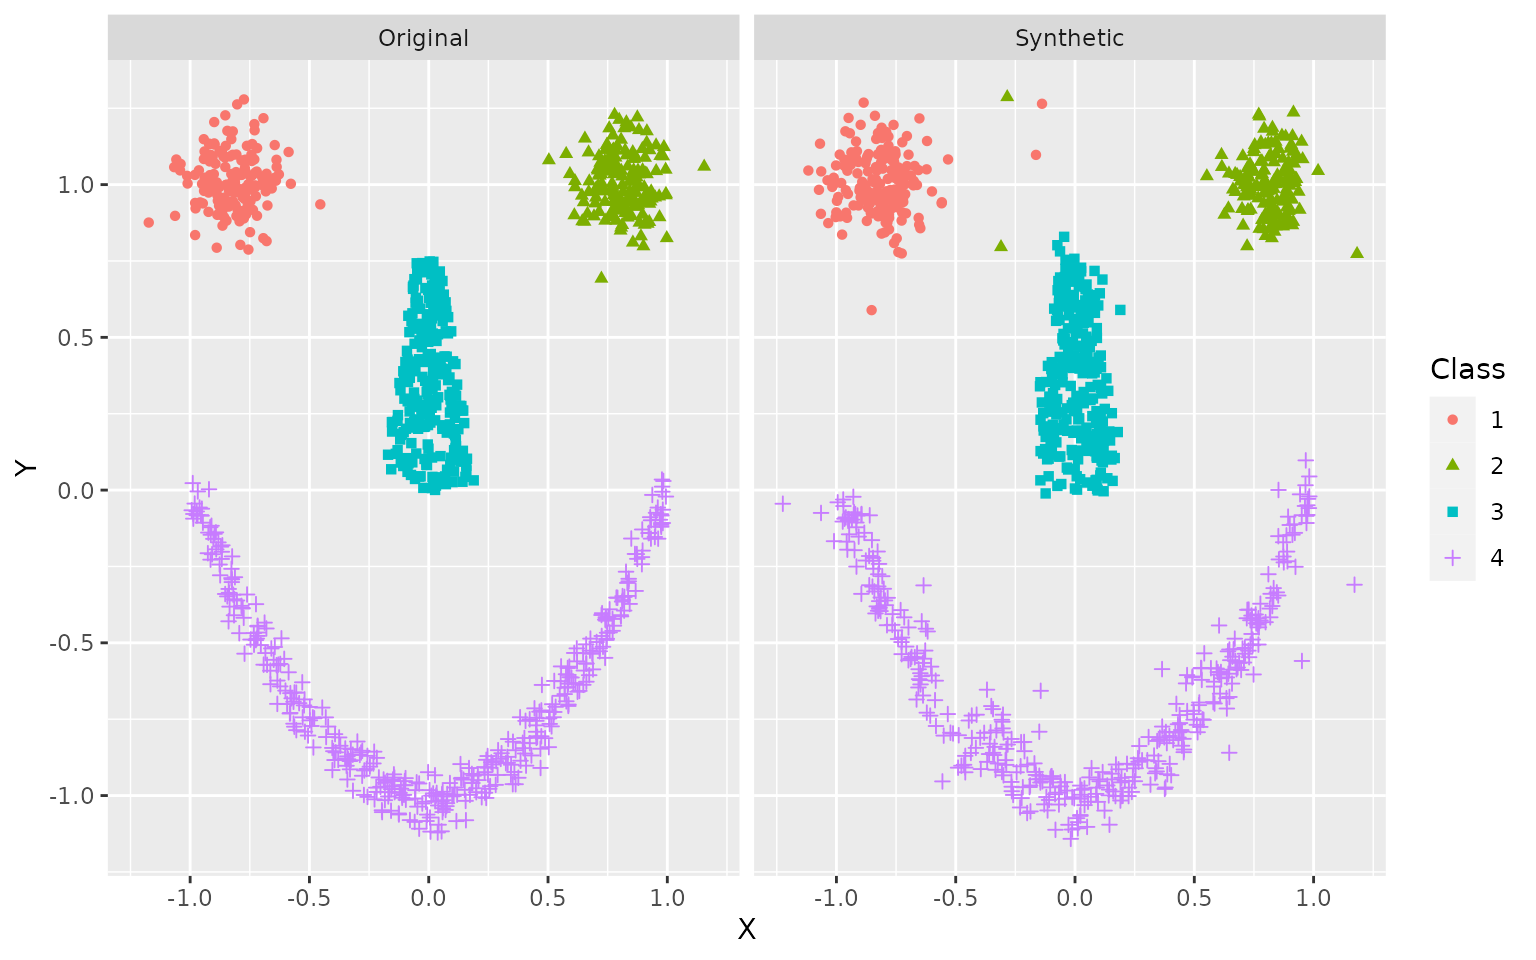
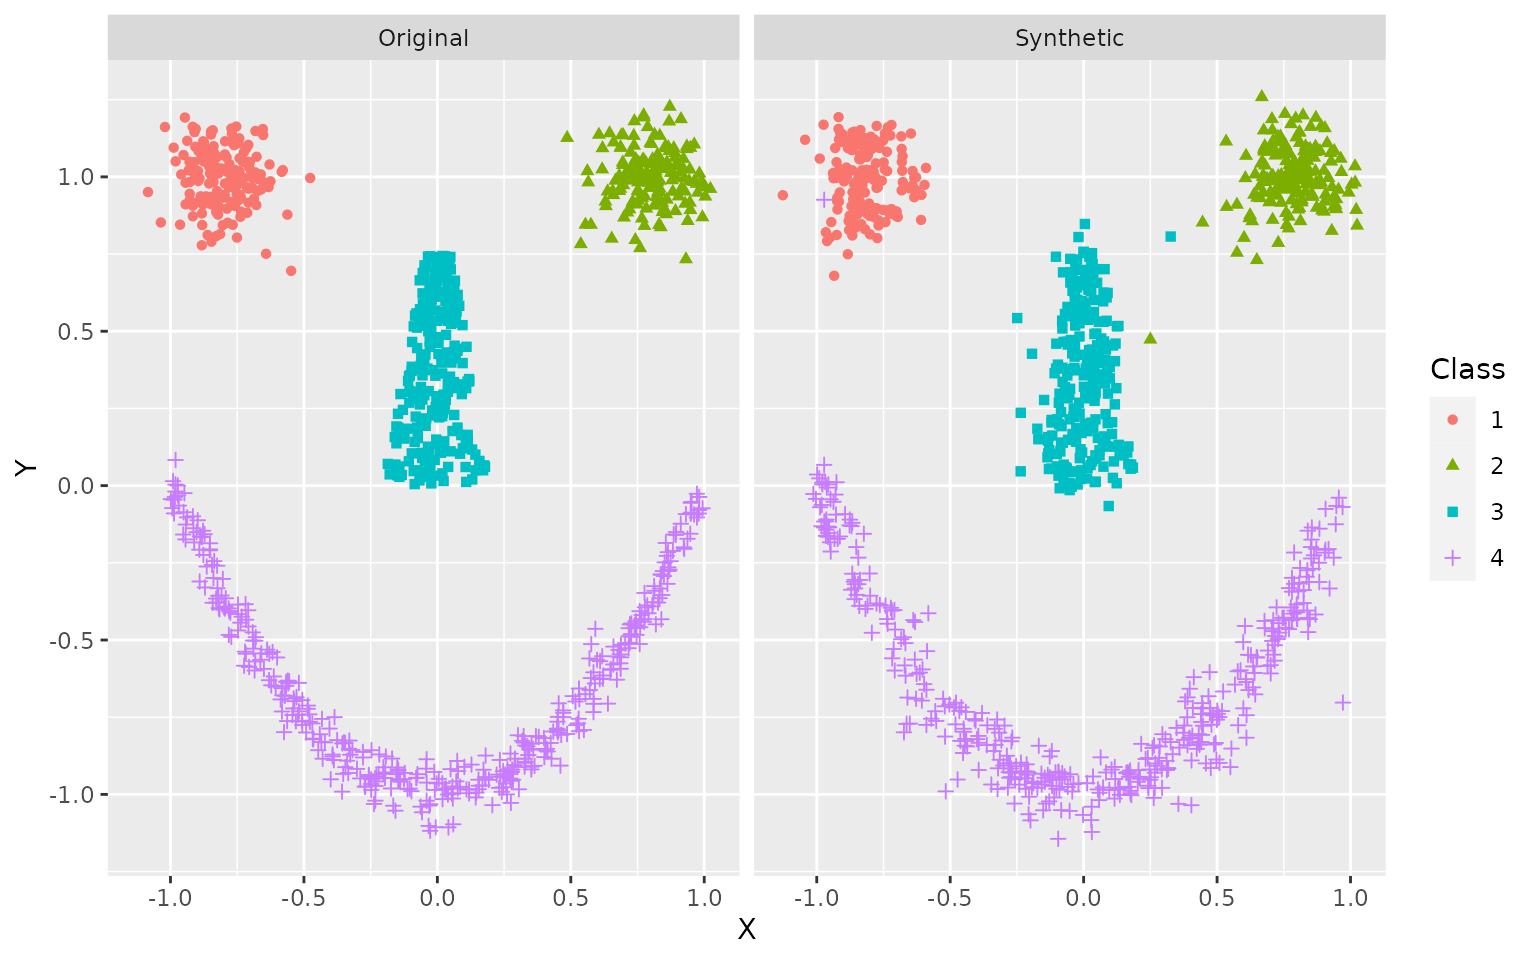
Deploying to gh-pages from @ bips-hb/arf@0cceef1825224af3006ca0262bbc027bc359004c 🚀

diff --git a/reference/forde.html b/reference/forde.html
@@ -146,51 +146,51 @@ treatment effects using random forests. <em>J. Am. Stat. Assoc.</em>,
     <div class="section level2">
     <h2 id="ref-examples">Examples<a class="anchor" aria-label="anchor" href="#ref-examples"></a></h2>
     <div class="sourceCode"><pre class="sourceCode r"><code><span class="r-in"><span><span class="va">arf</span> <span class="op">&lt;-</span> <span class="fu"><a href="adversarial_rf.html">adversarial_rf</a></span><span class="op">(</span><span class="va">iris</span><span class="op">)</span></span></span>
-<span class="r-out co"><span class="r-pr">#&gt;</span> Iteration: 0, Accuracy: 88.55%</span>
-<span class="r-out co"><span class="r-pr">#&gt;</span> Iteration: 1, Accuracy: 44.41%</span>
+<span class="r-out co"><span class="r-pr">#&gt;</span> Iteration: 0, Accuracy: 90.3%</span>
+<span class="r-out co"><span class="r-pr">#&gt;</span> Iteration: 1, Accuracy: 38.93%</span>
 <span class="r-in"><span><span class="va">psi</span> <span class="op">&lt;-</span> <span class="fu">forde</span><span class="op">(</span><span class="va">arf</span>, <span class="va">iris</span><span class="op">)</span></span></span>
 <span class="r-in"><span><span class="fu"><a href="https://rdrr.io/r/utils/head.html" class="external-link">head</a></span><span class="op">(</span><span class="va">psi</span><span class="op">)</span></span></span>
 <span class="r-out co"><span class="r-pr">#&gt;</span> $cnt</span>
-<span class="r-out co"><span class="r-pr">#&gt;</span>          variable  min  max f_idx       mu      sigma</span>
-<span class="r-out co"><span class="r-pr">#&gt;</span>   1: Sepal.Length -Inf  Inf     5 5.133333 0.29195564</span>
-<span class="r-out co"><span class="r-pr">#&gt;</span>   2: Sepal.Length 4.50 4.75     2 4.633333 0.05163978</span>
-<span class="r-out co"><span class="r-pr">#&gt;</span>   3: Sepal.Length -Inf  Inf     8 5.100000 0.27633971</span>
-<span class="r-out co"><span class="r-pr">#&gt;</span>   4: Sepal.Length 4.75  Inf     6 5.191667 0.23143164</span>
-<span class="r-out co"><span class="r-pr">#&gt;</span>   5: Sepal.Length -Inf 4.50     1 4.400000 0.07071068</span>
-<span class="r-out co"><span class="r-pr">#&gt;</span>  ---                                                 </span>
-<span class="r-out co"><span class="r-pr">#&gt;</span> 620:  Petal.Width -Inf  Inf   156 2.133333 0.28284271</span>
-<span class="r-out co"><span class="r-pr">#&gt;</span> 621:  Petal.Width -Inf  Inf   142 2.150000 0.13784049</span>
-<span class="r-out co"><span class="r-pr">#&gt;</span> 622:  Petal.Width -Inf  Inf   147 2.066667 0.37859389</span>
-<span class="r-out co"><span class="r-pr">#&gt;</span> 623:  Petal.Width -Inf  Inf   152 1.875000 0.35939764</span>
-<span class="r-out co"><span class="r-pr">#&gt;</span> 624:  Petal.Width -Inf  Inf   153 2.063636 0.20626550</span>
+<span class="r-out co"><span class="r-pr">#&gt;</span>          variable  min max f_idx       mu     sigma</span>
+<span class="r-out co"><span class="r-pr">#&gt;</span>   1: Sepal.Length -Inf Inf     5 4.953659 0.3536224</span>
+<span class="r-out co"><span class="r-pr">#&gt;</span>   2: Sepal.Length -Inf Inf    13 5.244444 0.2403701</span>
+<span class="r-out co"><span class="r-pr">#&gt;</span>   3: Sepal.Length -Inf Inf     4 6.841667 0.5680242</span>
+<span class="r-out co"><span class="r-pr">#&gt;</span>   4: Sepal.Length -Inf Inf    12 6.366667 0.3511885</span>
+<span class="r-out co"><span class="r-pr">#&gt;</span>   5: Sepal.Length -Inf Inf     6 5.700000 0.2828427</span>
+<span class="r-out co"><span class="r-pr">#&gt;</span>  ---                                               </span>
+<span class="r-out co"><span class="r-pr">#&gt;</span> 652:  Petal.Width 1.15 Inf   158 1.290000 0.0875595</span>
+<span class="r-out co"><span class="r-pr">#&gt;</span> 653:  Petal.Width 1.15 Inf   161 1.466667 0.2516611</span>
+<span class="r-out co"><span class="r-pr">#&gt;</span> 654:  Petal.Width 0.70 Inf   157 2.200000 0.4082483</span>
+<span class="r-out co"><span class="r-pr">#&gt;</span> 655:  Petal.Width -Inf Inf   154 2.133333 0.1527525</span>
+<span class="r-out co"><span class="r-pr">#&gt;</span> 656:  Petal.Width -Inf Inf   150 2.100000 0.1414214</span>
 <span class="r-out co"><span class="r-pr">#&gt;</span> </span>
 <span class="r-out co"><span class="r-pr">#&gt;</span> $cat</span>
-<span class="r-out co"><span class="r-pr">#&gt;</span>      variable       val       prob f_idx</span>
-<span class="r-out co"><span class="r-pr">#&gt;</span>   1:  Species    setosa 1.00000000     5</span>
-<span class="r-out co"><span class="r-pr">#&gt;</span>   2:  Species    setosa 1.00000000     2</span>
-<span class="r-out co"><span class="r-pr">#&gt;</span>   3:  Species    setosa 1.00000000     8</span>
-<span class="r-out co"><span class="r-pr">#&gt;</span>   4:  Species    setosa 1.00000000     6</span>
-<span class="r-out co"><span class="r-pr">#&gt;</span>   5:  Species    setosa 1.00000000     1</span>
+<span class="r-out co"><span class="r-pr">#&gt;</span>      variable        val      prob f_idx</span>
+<span class="r-out co"><span class="r-pr">#&gt;</span>   1:  Species     setosa 1.0000000     5</span>
+<span class="r-out co"><span class="r-pr">#&gt;</span>   2:  Species     setosa 1.0000000    13</span>
+<span class="r-out co"><span class="r-pr">#&gt;</span>   3:  Species versicolor 0.4166667     4</span>
+<span class="r-out co"><span class="r-pr">#&gt;</span>   4:  Species versicolor 1.0000000    12</span>
+<span class="r-out co"><span class="r-pr">#&gt;</span>   5:  Species versicolor 1.0000000     6</span>
 <span class="r-out co"><span class="r-pr">#&gt;</span>  ---                                    </span>
-<span class="r-out co"><span class="r-pr">#&gt;</span> 189:  Species virginica 1.00000000   147</span>
-<span class="r-out co"><span class="r-pr">#&gt;</span> 190:  Species virginica 1.00000000   152</span>
-<span class="r-out co"><span class="r-pr">#&gt;</span> 191:  Species virginica 1.00000000   153</span>
-<span class="r-out co"><span class="r-pr">#&gt;</span> 192:  Species virginica 0.07407407   151</span>
-<span class="r-out co"><span class="r-pr">#&gt;</span> 193:  Species virginica 0.75000000   155</span>
+<span class="r-out co"><span class="r-pr">#&gt;</span> 206:  Species  virginica 0.8148148   162</span>
+<span class="r-out co"><span class="r-pr">#&gt;</span> 207:  Species  virginica 1.0000000   154</span>
+<span class="r-out co"><span class="r-pr">#&gt;</span> 208:  Species  virginica 0.3333333   161</span>
+<span class="r-out co"><span class="r-pr">#&gt;</span> 209:  Species  virginica 0.7500000   157</span>
+<span class="r-out co"><span class="r-pr">#&gt;</span> 210:  Species  virginica 1.0000000   150</span>
 <span class="r-out co"><span class="r-pr">#&gt;</span> </span>
 <span class="r-out co"><span class="r-pr">#&gt;</span> $forest</span>
 <span class="r-out co"><span class="r-pr">#&gt;</span>      f_idx tree leaf        cvg</span>
-<span class="r-out co"><span class="r-pr">#&gt;</span>   1:     1    1    4 0.03333333</span>
-<span class="r-out co"><span class="r-pr">#&gt;</span>   2:     2    1    5 0.04000000</span>
-<span class="r-out co"><span class="r-pr">#&gt;</span>   3:     3    1   19 0.01333333</span>
-<span class="r-out co"><span class="r-pr">#&gt;</span>   4:     4    1   25 0.02666667</span>
-<span class="r-out co"><span class="r-pr">#&gt;</span>   5:     5    1   28 0.10000000</span>
+<span class="r-out co"><span class="r-pr">#&gt;</span>   1:     1    1   17 0.06666667</span>
+<span class="r-out co"><span class="r-pr">#&gt;</span>   2:     2    1   19 0.02000000</span>
+<span class="r-out co"><span class="r-pr">#&gt;</span>   3:     3    1   35 0.06666667</span>
+<span class="r-out co"><span class="r-pr">#&gt;</span>   4:     4    1   47 0.08000000</span>
+<span class="r-out co"><span class="r-pr">#&gt;</span>   5:     5    1   48 0.27333333</span>
 <span class="r-out co"><span class="r-pr">#&gt;</span>  ---                           </span>
-<span class="r-out co"><span class="r-pr">#&gt;</span> 152:   152   10   68 0.02666667</span>
-<span class="r-out co"><span class="r-pr">#&gt;</span> 153:   153   10   71 0.07333333</span>
-<span class="r-out co"><span class="r-pr">#&gt;</span> 154:   154   10   73 0.04000000</span>
-<span class="r-out co"><span class="r-pr">#&gt;</span> 155:   155   10   74 0.02666667</span>
-<span class="r-out co"><span class="r-pr">#&gt;</span> 156:   156   10   76 0.06000000</span>
+<span class="r-out co"><span class="r-pr">#&gt;</span> 160:   160   10   52 0.02000000</span>
+<span class="r-out co"><span class="r-pr">#&gt;</span> 161:   161   10   53 0.02000000</span>
+<span class="r-out co"><span class="r-pr">#&gt;</span> 162:   162   10   59 0.18000000</span>
+<span class="r-out co"><span class="r-pr">#&gt;</span> 163:   163   10   65 0.07333333</span>
+<span class="r-out co"><span class="r-pr">#&gt;</span> 164:   164   10   66 0.04000000</span>
 <span class="r-out co"><span class="r-pr">#&gt;</span> </span>
 <span class="r-out co"><span class="r-pr">#&gt;</span> $meta</span>
 <span class="r-out co"><span class="r-pr">#&gt;</span>        variable   class    family</span>

diff --git a/articles/vignette.html b/articles/vignette.html
@@ -185,17 +185,17 @@ parameters; and (4) variable metadata.</p>
 <code class="sourceCode R"><span><span class="va">params</span></span>
 <span><span class="co">#&gt; $cnt</span></span>
 <span><span class="co">#&gt;           variable  min  max f_idx       mu      sigma</span></span>
-<span><span class="co">#&gt;    1: Sepal.Length -Inf  Inf    12 4.965789 0.33472564</span></span>
-<span><span class="co">#&gt;    2: Sepal.Length 5.05  Inf    15 5.250000 0.16431677</span></span>
-<span><span class="co">#&gt;    3: Sepal.Length -Inf  Inf    11 4.450000 0.21213203</span></span>
+<span><span class="co">#&gt;    1: Sepal.Length -Inf 6.35    12 4.965789 0.33472564</span></span>
+<span><span class="co">#&gt;    2: Sepal.Length 5.05 6.35    15 5.250000 0.16431677</span></span>
+<span><span class="co">#&gt;    3: Sepal.Length -Inf 6.35    11 4.450000 0.21213203</span></span>
 <span><span class="co">#&gt;    4: Sepal.Length -Inf  Inf     1 5.600000 0.14142136</span></span>
 <span><span class="co">#&gt;    5: Sepal.Length -Inf 5.05    14 5.000000 0.02023536</span></span>
 <span><span class="co">#&gt;   ---                                                 </span></span>
 <span><span class="co">#&gt; 6988:  Petal.Width -Inf  Inf  1738 2.166667 0.32659863</span></span>
 <span><span class="co">#&gt; 6989:  Petal.Width 1.05  Inf  1745 1.900000 0.25419556</span></span>
-<span><span class="co">#&gt; 6990:  Petal.Width -Inf  Inf  1744 2.071429 0.22677868</span></span>
-<span><span class="co">#&gt; 6991:  Petal.Width -Inf  Inf  1747 2.166667 0.32145503</span></span>
-<span><span class="co">#&gt; 6992:  Petal.Width -Inf  Inf  1748 1.900000 0.22360680</span></span>
+<span><span class="co">#&gt; 6990:  Petal.Width 1.05  Inf  1744 2.071429 0.22677868</span></span>
+<span><span class="co">#&gt; 6991:  Petal.Width 1.05  Inf  1747 2.166667 0.32145503</span></span>
+<span><span class="co">#&gt; 6992:  Petal.Width 1.05  Inf  1748 1.900000 0.22360680</span></span>
 <span><span class="co">#&gt; </span></span>
 <span><span class="co">#&gt; $cat</span></span>
 <span><span class="co">#&gt;       variable       val      prob f_idx</span></span>
@@ -247,9 +247,9 @@ data whose likelihood we wish to evaluate.</p>
 <span></span>
 <span><span class="co"># Compare average negative log-likelihood (lower is better)</span></span>
 <span><span class="op">-</span><span class="fu"><a href="https://rdrr.io/r/base/mean.html" class="external-link">mean</a></span><span class="op">(</span><span class="va">ll</span><span class="op">)</span></span>
-<span><span class="co">#&gt; [1] 0.3194378</span></span>
+<span><span class="co">#&gt; [1] 0.297767</span></span>
 <span><span class="op">-</span><span class="fu"><a href="https://rdrr.io/r/base/mean.html" class="external-link">mean</a></span><span class="op">(</span><span class="va">ll_unif</span><span class="op">)</span></span>
-<span><span class="co">#&gt; [1] 5.991751</span></span></code></pre></div>
+<span><span class="co">#&gt; [1] 4.236065</span></span></code></pre></div>
 <p>Note that the piecewise constant estimator does considerably worse in
 this experiment.</p>
 <p>We can compute likelihoods on the probability scale by setting
@@ -297,8 +297,8 @@ synthetic datapoints. Resulting data are plotted side by side.</p>
 <span></span>
 <span><span class="co"># Fit ARF</span></span>
 <span><span class="va">arf</span> <span class="op">&lt;-</span> <span class="fu"><a href="../reference/adversarial_rf.html">adversarial_rf</a></span><span class="op">(</span><span class="va">x</span>, mtry <span class="op">=</span> <span class="fl">2</span><span class="op">)</span></span>
-<span><span class="co">#&gt; Iteration: 0, Accuracy: 90.36%</span></span>
-<span><span class="co">#&gt; Iteration: 1, Accuracy: 38.4%</span></span>
+<span><span class="co">#&gt; Iteration: 0, Accuracy: 89.94%</span></span>
+<span><span class="co">#&gt; Iteration: 1, Accuracy: 36.48%</span></span>
 <span></span>
 <span><span class="co"># Estimate parameters</span></span>
 <span><span class="va">params</span> <span class="op">&lt;-</span> <span class="fu"><a href="../reference/forde.html">forde</a></span><span class="op">(</span><span class="va">arf</span>, <span class="va">x</span><span class="op">)</span></span>
@@ -309,14 +309,14 @@ synthetic datapoints. Resulting data are plotted side by side.</p>
 <span><span class="co"># Compare structure</span></span>
 <span><span class="fu"><a href="https://rdrr.io/r/utils/str.html" class="external-link">str</a></span><span class="op">(</span><span class="va">x</span><span class="op">)</span></span>
 <span><span class="co">#&gt; 'data.frame':    1000 obs. of  3 variables:</span></span>
-<span><span class="co">#&gt;  $ X    : num  -0.667 -0.645 -0.913 -0.781 -0.756 ...</span></span>
-<span><span class="co">#&gt;  $ Y    : num  1.01 1.129 1.097 0.913 0.787 ...</span></span>
+<span><span class="co">#&gt;  $ X    : num  -0.653 -0.71 -0.679 -1.021 -0.927 ...</span></span>
+<span><span class="co">#&gt;  $ Y    : num  1.136 1.049 0.909 1.161 0.984 ...</span></span>
 <span><span class="co">#&gt;  $ Class: Factor w/ 4 levels "1","2","3","4": 1 1 1 1 1 1 1 1 1 1 ...</span></span>
 <span><span class="fu"><a href="https://rdrr.io/r/utils/str.html" class="external-link">str</a></span><span class="op">(</span><span class="va">synth</span><span class="op">)</span></span>
 <span><span class="co">#&gt; 'data.frame':    1000 obs. of  3 variables:</span></span>
-<span><span class="co">#&gt;  $ X    : num  -1.037 0.827 -0.863 0.879 -0.033 ...</span></span>
-<span><span class="co">#&gt;  $ Y    : num  1.014 -0.379 -0.216 1.039 0.194 ...</span></span>
-<span><span class="co">#&gt;  $ Class: Factor w/ 4 levels "1","2","3","4": 1 4 4 2 3 4 2 4 4 1 ...</span></span>
+<span><span class="co">#&gt;  $ X    : num  -0.8256 -0.9136 -0.9267 0.0961 -0.0873 ...</span></span>
+<span><span class="co">#&gt;  $ Y    : num  0.988 -0.165 0.996 -0.986 0.111 ...</span></span>
+<span><span class="co">#&gt;  $ Class: Factor w/ 4 levels "1","2","3","4": 1 4 1 4 3 1 3 2 4 1 ...</span></span>
 <span></span>
 <span><span class="co"># Put it all together</span></span>
 <span><span class="va">x</span><span class="op">$</span><span class="va">Data</span> <span class="op">&lt;-</span> <span class="st">'Original'</span></span>
@@ -367,10 +367,10 @@ the feature as numeric.</p>
 <span></span>
 <span><span class="co"># Train ARF</span></span>
 <span><span class="va">arf</span> <span class="op">&lt;-</span> <span class="fu"><a href="../reference/adversarial_rf.html">adversarial_rf</a></span><span class="op">(</span><span class="va">diamonds</span><span class="op">[</span><span class="va">s_idx</span>, <span class="op">]</span><span class="op">)</span></span>
-<span><span class="co">#&gt; Iteration: 0, Accuracy: 96.66%</span></span>
-<span><span class="co">#&gt; Iteration: 1, Accuracy: 72.98%</span></span>
-<span><span class="co">#&gt; Iteration: 2, Accuracy: 51.13%</span></span>
-<span><span class="co">#&gt; Iteration: 3, Accuracy: 49.39%</span></span>
+<span><span class="co">#&gt; Iteration: 0, Accuracy: 96.06%</span></span>
+<span><span class="co">#&gt; Iteration: 1, Accuracy: 66.68%</span></span>
+<span><span class="co">#&gt; Iteration: 2, Accuracy: 53.08%</span></span>
+<span><span class="co">#&gt; Iteration: 3, Accuracy: 49.87%</span></span>
 <span></span>
 <span><span class="co"># Fit density</span></span>
 <span><span class="va">params</span> <span class="op">&lt;-</span> <span class="fu"><a href="../reference/forde.html">forde</a></span><span class="op">(</span><span class="va">arf</span>, <span class="va">diamonds</span><span class="op">[</span><span class="va">s_idx</span>, <span class="op">]</span><span class="op">)</span></span>

diff --git a/reference/adversarial_rf.html b/reference/adversarial_rf.html
@@ -56,10 +56,10 @@
     <h2 id="ref-usage">Usage<a class="anchor" aria-label="anchor" href="#ref-usage"></a></h2>
     <div class="sourceCode"><pre class="sourceCode r"><code><span><span class="fu">adversarial_rf</span><span class="op">(</span></span>
 <span>  <span class="va">x</span>,</span>
-<span>  num_trees <span class="op">=</span> <span class="fl">10</span>,</span>
-<span>  min_node_size <span class="op">=</span> <span class="fl">2</span>,</span>
+<span>  num_trees <span class="op">=</span> <span class="fl">10L</span>,</span>
+<span>  min_node_size <span class="op">=</span> <span class="fl">2L</span>,</span>
 <span>  delta <span class="op">=</span> <span class="fl">0</span>,</span>
-<span>  max_iters <span class="op">=</span> <span class="fl">10</span>,</span>
+<span>  max_iters <span class="op">=</span> <span class="fl">10L</span>,</span>
 <span>  verbose <span class="op">=</span> <span class="cn">TRUE</span>,</span>
 <span>  parallel <span class="op">=</span> <span class="cn">TRUE</span>,</span>
 <span>  <span class="va">...</span></span>
@@ -153,9 +153,10 @@ forests for density estimation and generative modeling. <em>arXiv</em> preprint,
     <div class="section level2">
     <h2 id="ref-examples">Examples<a class="anchor" aria-label="anchor" href="#ref-examples"></a></h2>
     <div class="sourceCode"><pre class="sourceCode r"><code><span class="r-in"><span><span class="va">arf</span> <span class="op">&lt;-</span> <span class="fu">adversarial_rf</span><span class="op">(</span><span class="va">iris</span><span class="op">)</span></span></span>
-<span class="r-out co"><span class="r-pr">#&gt;</span> Iteration: 0, Accuracy: 85.33%</span>
+<span class="r-out co"><span class="r-pr">#&gt;</span> Iteration: 0, Accuracy: 86.53%</span>
 <span class="r-wrn co"><span class="r-pr">#&gt;</span> <span class="warning">Warning: </span>executing %dopar% sequentially: no parallel backend registered</span>
-<span class="r-out co"><span class="r-pr">#&gt;</span> Iteration: 1, Accuracy: 37.79%</span>
+<span class="r-out co"><span class="r-pr">#&gt;</span> Iteration: 1, Accuracy: 50.34%</span>
+<span class="r-out co"><span class="r-pr">#&gt;</span> Iteration: 2, Accuracy: 38.93%</span>
 <span class="r-in"><span></span></span>
 <span class="r-in"><span></span></span>
 </code></pre></div>

diff --git a/reference/lik.html b/reference/lik.html
@@ -122,12 +122,12 @@ forests for density estimation and generative modeling. <em>arXiv</em> preprint,
     <h2 id="ref-examples">Examples<a class="anchor" aria-label="anchor" href="#ref-examples"></a></h2>
     <div class="sourceCode"><pre class="sourceCode r"><code><span class="r-in"><span><span class="co"># Estimate average log-likelihood</span></span></span>
 <span class="r-in"><span><span class="va">arf</span> <span class="op">&lt;-</span> <span class="fu"><a href="adversarial_rf.html">adversarial_rf</a></span><span class="op">(</span><span class="va">iris</span><span class="op">)</span></span></span>
-<span class="r-out co"><span class="r-pr">#&gt;</span> Iteration: 0, Accuracy: 89.23%</span>
-<span class="r-out co"><span class="r-pr">#&gt;</span> Iteration: 1, Accuracy: 44.93%</span>
+<span class="r-out co"><span class="r-pr">#&gt;</span> Iteration: 0, Accuracy: 83.05%</span>
+<span class="r-out co"><span class="r-pr">#&gt;</span> Iteration: 1, Accuracy: 41.95%</span>
 <span class="r-in"><span><span class="va">psi</span> <span class="op">&lt;-</span> <span class="fu"><a href="forde.html">forde</a></span><span class="op">(</span><span class="va">arf</span>, <span class="va">iris</span><span class="op">)</span></span></span>
 <span class="r-in"><span><span class="va">ll</span> <span class="op">&lt;-</span> <span class="fu">lik</span><span class="op">(</span><span class="va">arf</span>, <span class="va">psi</span>, <span class="va">iris</span>, log <span class="op">=</span> <span class="cn">TRUE</span><span class="op">)</span></span></span>
 <span class="r-in"><span><span class="fu"><a href="https://rdrr.io/r/base/mean.html" class="external-link">mean</a></span><span class="op">(</span><span class="va">ll</span><span class="op">)</span></span></span>
-<span class="r-out co"><span class="r-pr">#&gt;</span> [1] -1.155267</span>
+<span class="r-out co"><span class="r-pr">#&gt;</span> [1] -0.609886</span>
 <span class="r-in"><span></span></span>
 <span class="r-in"><span></span></span>
 </code></pre></div>

diff --git a/reference/forge.html b/reference/forge.html
@@ -101,8 +101,8 @@ forests for density estimation and generative modeling. <em>arXiv</em> preprint,
     <div class="section level2">
     <h2 id="ref-examples">Examples<a class="anchor" aria-label="anchor" href="#ref-examples"></a></h2>
     <div class="sourceCode"><pre class="sourceCode r"><code><span class="r-in"><span><span class="va">arf</span> <span class="op">&lt;-</span> <span class="fu"><a href="adversarial_rf.html">adversarial_rf</a></span><span class="op">(</span><span class="va">iris</span><span class="op">)</span></span></span>
-<span class="r-out co"><span class="r-pr">#&gt;</span> Iteration: 0, Accuracy: 89.19%</span>
-<span class="r-out co"><span class="r-pr">#&gt;</span> Iteration: 1, Accuracy: 42.66%</span>
+<span class="r-out co"><span class="r-pr">#&gt;</span> Iteration: 0, Accuracy: 87.41%</span>
+<span class="r-out co"><span class="r-pr">#&gt;</span> Iteration: 1, Accuracy: 46.28%</span>
 <span class="r-in"><span><span class="va">psi</span> <span class="op">&lt;-</span> <span class="fu"><a href="forde.html">forde</a></span><span class="op">(</span><span class="va">arf</span>, <span class="va">iris</span><span class="op">)</span></span></span>
 <span class="r-in"><span><span class="va">x_synth</span> <span class="op">&lt;-</span> <span class="fu">forge</span><span class="op">(</span><span class="va">psi</span>, n_synth <span class="op">=</span> <span class="fl">100</span><span class="op">)</span></span></span>
 <span class="r-in"><span></span></span>
